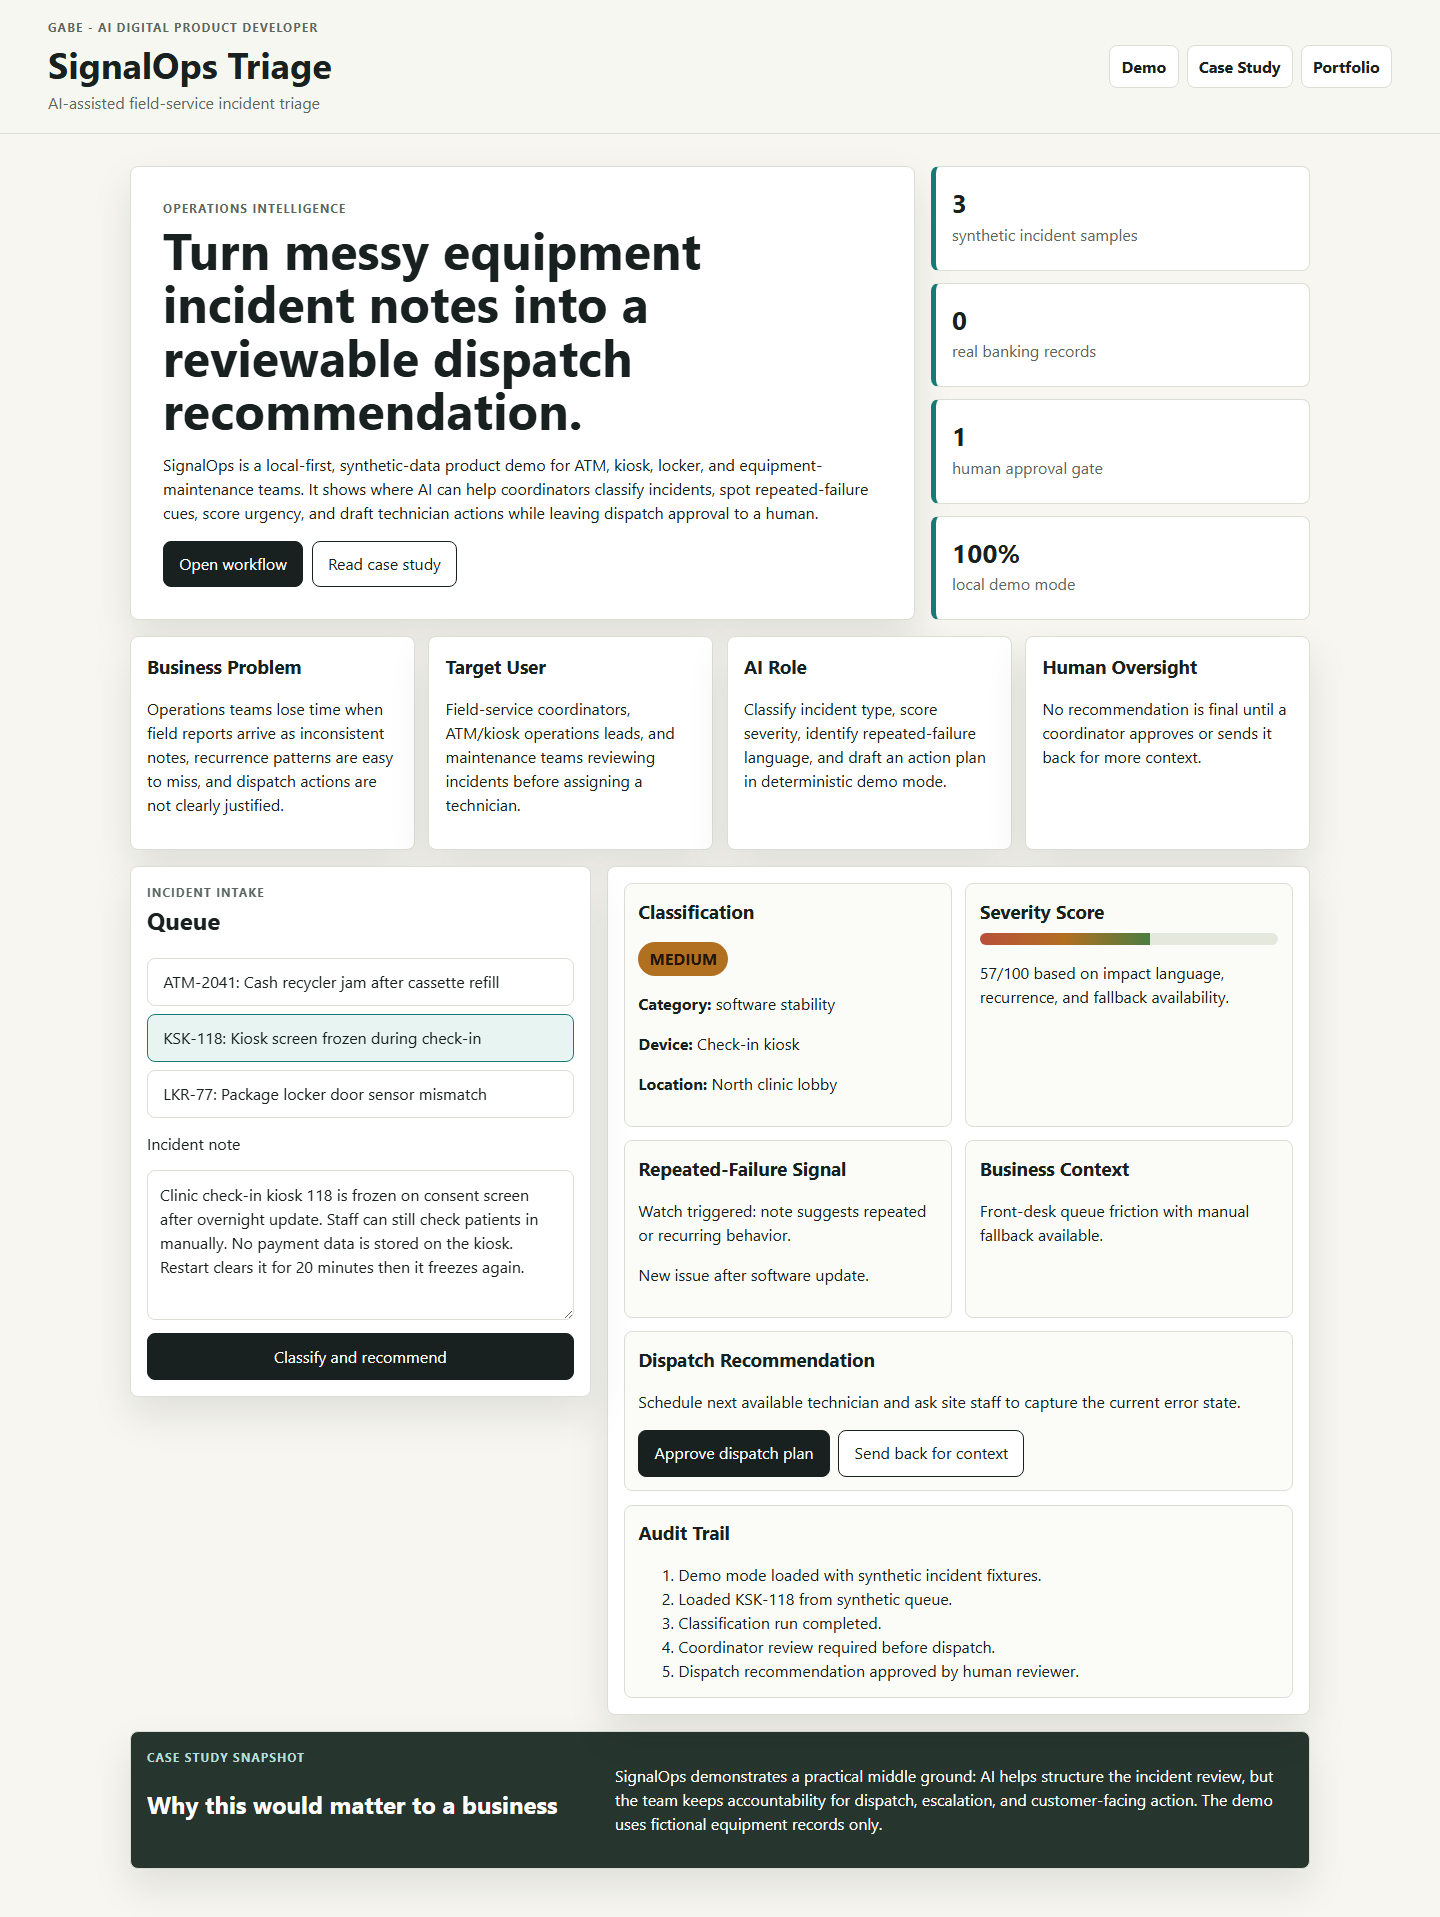
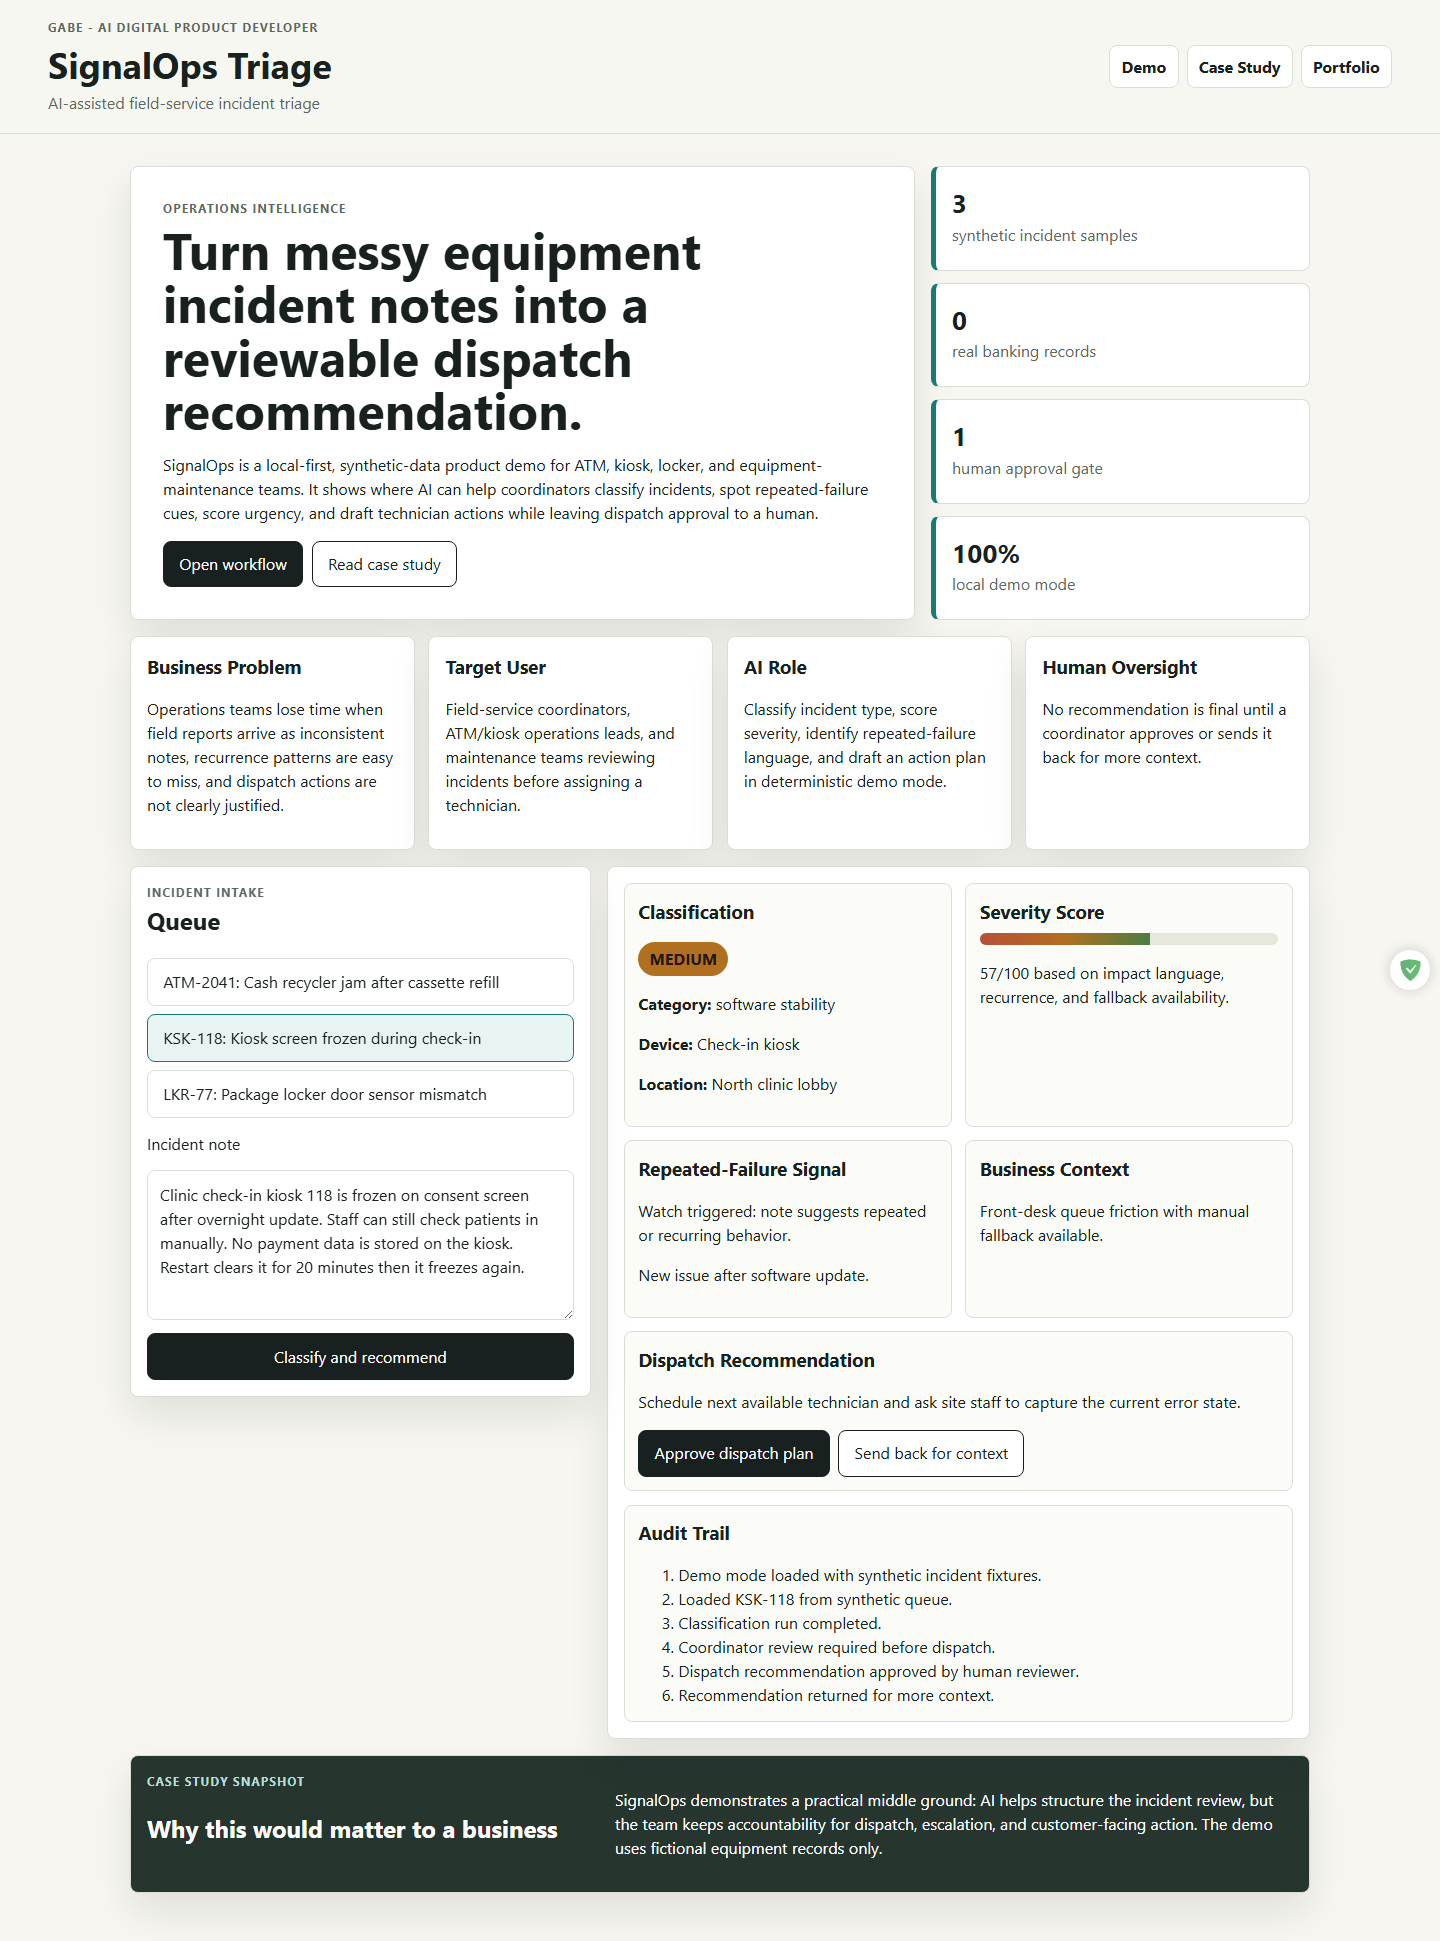
test: add standalone browser and accessibility coverage

diff --git a/assets/app.js b/assets/app.js
@@ -91,7 +91,7 @@
         </article>
         <article class="output-block">
           <h3>Severity Score</h3>
-          <div class="meter" aria-label="Severity score ${analysis.result.score} of 100">
+          <div class="meter" role="meter" aria-label="Severity score" aria-valuemin="0" aria-valuemax="100" aria-valuenow="${analysis.result.score}">
             <span style="width:${analysis.result.score}%"></span>
           </div>
           <p>${analysis.result.score}/100 based on impact language, recurrence, and fallback availability.</p>
@@ -156,4 +156,3 @@
   renderQueue();
   renderOutput();
 })();
-

diff --git a/docs/VALIDATION.md b/docs/VALIDATION.md
@@ -1,0 +1,22 @@
+# Validation Evidence
+
+## v1.0.1 hardening
+
+Validated on July 18, 2026.
+
+- Repository validation: passed for structure, synthetic fixtures, privacy patterns, accessibility hooks, and required workflow code.
+- Desktop browser: passed at 1440 x 1000 with queue selection, classification, recurrence evidence, approval, return, audit history, and no horizontal overflow.
+- Mobile browser: passed at 390 x 844 with queue selection, classification, return decision, and no horizontal overflow.
+- Keyboard path: passed. The skip link receives focus first and moves focus to the main content.
+- Browser health: zero console errors and zero failed normal requests.
+- Privacy scan: passed. No personal email address, local user path, API key, GitHub token, private prompt, credential, or production record is present.
+- Local axe-core audit: passed at desktop and mobile viewports with zero violations.
+
+## Visual evidence
+
+- `docs/screenshots/signalops-approved-workflow.png`: complete desktop approval and audit workflow.
+- `docs/screenshots/signalops-mobile-workflow.png`: complete mobile review workflow.
+
+## Deployment verification
+
+The same browser suite runs against `https://jubjub-cpu.github.io/signalops-triage/` using `SIGNALOPS_BASE_URL`.

diff --git a/docs/RELEASE_NOTES.md b/docs/RELEASE_NOTES.md
@@ -1,5 +1,18 @@
 # Release Notes
 
+## v1.0.1
+
+Adds dedicated standalone browser hardening.
+
+### Included
+
+- Local and deployed Playwright coverage for queue selection, classification, recurrence evidence, approval, return, and audit history.
+- Desktop, mobile, keyboard, overflow, console, and failed-request checks.
+- Correct ARIA meter semantics for the incident severity score.
+- Automated axe-core verification at desktop and mobile viewports.
+- Stronger repository privacy scanning for personal email, local user paths, and private development notes.
+- Updated validation evidence and screenshots.
+
 ## v1.0.0
 
 Initial standalone release of SignalOps Triage.
@@ -19,4 +32,3 @@ Initial standalone release of SignalOps Triage.
 
 - `tests/validate.ps1` passes locally.
 - No real customer, banking, transaction, or credential data is included.
-

diff --git a/README.md b/README.md
@@ -2,6 +2,8 @@
 
 AI-assisted field-service incident triage with human-approved dispatch recommendations.
 
+[Live demo](https://jubjub-cpu.github.io/signalops-triage/) | [Portfolio](https://jubjub-cpu.github.io/gabe-ai-product-portfolio/) | [v1.0.1 release](https://github.com/jubjub-cpu/signalops-triage/releases/tag/v1.0.1)
+
 ## Overview
 
 SignalOps Triage is a standalone product demo for operations teams that review ATM, kiosk, locker, or equipment-maintenance incidents. It turns a synthetic incident note into a classification, severity score, repeated-failure signal, dispatch recommendation, and audit trail.
@@ -54,7 +56,7 @@ Mobile workflow:
 
 ## Live Demo
 
-After GitHub Pages is enabled, the demo will be available at:
+Public deployment:
 
 `https://jubjub-cpu.github.io/signalops-triage/`
 
@@ -89,6 +91,7 @@ docs/
   CASE_STUDY.md
   RELEASE_NOTES.md
 tests/
+  browser-smoke.mjs
   validate.ps1
 tools/
   static-server.mjs
@@ -135,7 +138,10 @@ Run:
 ```powershell
 Set-Location 'path\to\signalops-triage'
 powershell -ExecutionPolicy Bypass -File .\tests\validate.ps1
+node .\tests\browser-smoke.mjs
 ```
+
+For deployed verification, set `SIGNALOPS_BASE_URL=https://jubjub-cpu.github.io/signalops-triage/` before running the browser suite.
 
 ## Deployment
 